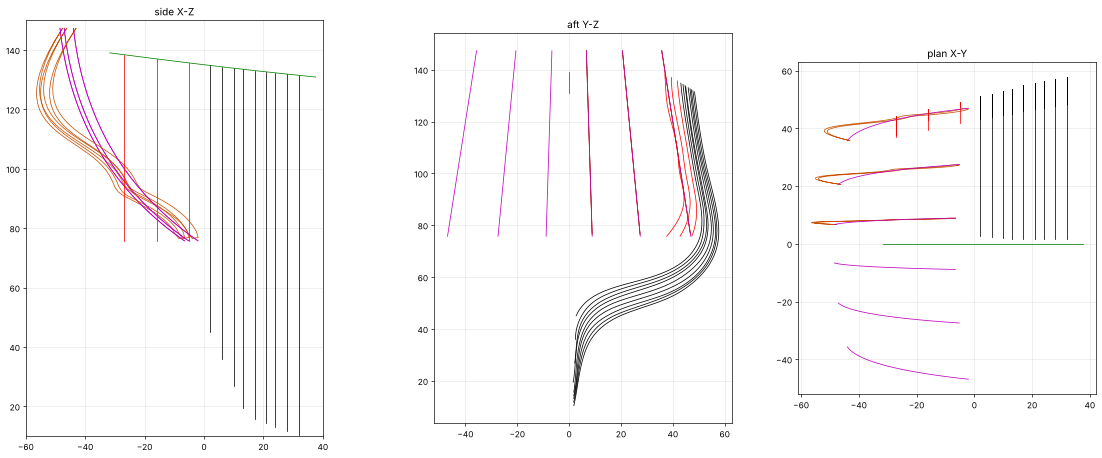
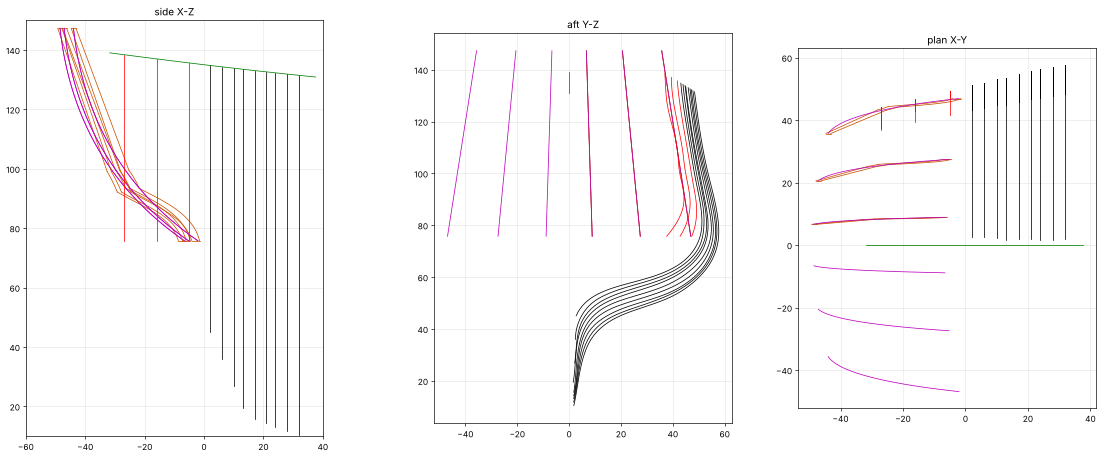
Aft timbers lines file v2 (previous dims) + F49-51 proposal
Claude-Session: https://claude.ai/code/session_01SWTSFSjbVSvZtN9zhZCgM8

diff --git a/royal_caroline/py/aft_timbers_lines_v2.py b/royal_caroline/py/aft_timbers_lines_v2.py
@@ -12,13 +12,13 @@ def nurbs(P,tol=0.02):
     for i,v in enumerate(t[1:-1]): cv.Knots[i]=float(v)
     return cv
 def add(cv,L,name): a=r3.ObjectAttributes(); a.LayerIndex=L; a.Name=name; f.Objects.AddCurve(cv,a)
-S=np.array(json.load(open('data/bulwark_line_v3.json'))['S1']); T=json.load(open('data/aft_frames_tops_v1.json'))
+SB=np.array(json.load(open('data/bulwark_line_v3.json'))['S1']); T=json.load(open('data/aft_frames_tops_v1.json'))
 # 1 approved tops (tangent extension to S1)
 L1=layer('APPROVED_aft_frames_46_48_with_tops_on_S1 (+Y)',(0,0,0,255))
 for k,v in T.items(): P=np.array(v['pts']); add(nurbs(np.c_[np.full(len(P),v['X']),P]),L1,k+' X=%g'%v['X'])
-Ls=layer('REF_bulwark_lower_line_S1',(0,150,0,255)); m=S[:,0]<45; Q=S[m][::6]; add(nurbs(np.c_[Q[:,0],np.zeros(len(Q)),Q[:,1]]),Ls,'S1 (X-Z, Y=0)')
+Ls=layer('REF_bulwark_lower_line_S1',(0,150,0,255)); m=SB[:,0]<45; Q=SB[m][::6]; add(nurbs(np.c_[Q[:,0],np.zeros(len(Q)),Q[:,1]]),Ls,'S1 (X-Z, Y=0)')
 # 2 counter timbers, previous dims (v5)
-exec(open('py/stern_v5.py').read().split("# ---- placement")[0].split("S=json.load")[0].split("from OCP")[0])  # imports only
+V5=open('py/stern_v5.py').read(); exec(V5.split('def make_edge')[0].replace('from OCP','#from OCP'))   # ctrl = approved profile pieces (lines + interpolated splines)
 Sd=json.load(open('data/stern_side_points_v3.json')); tp=json.load(open('data/stern_timber_profile_closed_v1.json')); D=np.array(tp['closed_dense'])
 Yc=[7.5,23.2,40.2]; Zd=[120.0,119.7,118.6]; SPL=[1.8,5.5,8.9]; kp=4.7/40.2**2; kz=5.85e-3; Z0=147.3
 L2=layer('PROPOSED_counter_timbers_side_profile_at_Y_centre (prev dims 2.5 strip)',(200,80,0,255)); L3=layer('PROPOSED_counter_timbers_centre_paths (3D)',(200,0,200,255)); L4=layer('PROPOSED_counter_timbers_top_points',(200,0,200,255))
@@ -27,8 +27,11 @@ for i in range(3):
     yc=lambda z,i=i: Yc[i]+math.tan(math.radians(SPL[i]))*(Zd[i]-z); dx=kp*(Yc[i]**2-Yc[0]**2)
     for sgn,s in ((1,'S'),(-1,'P')):
         if sgn<0 and i>=0 and False: pass
-        P=np.array([[x+dx,sgn*yc(z),z] for x,z in D[idx]]); P=np.vstack([P,P[0]])
-        if sgn>0: add(nurbs(P[:-1],0.05),L2,'T%d%s side profile (sample spline, closed outline from approved v5)'%(i+1,s))
+        if sgn>0:
+            for j,(kind,Pc) in enumerate(ctrl):
+                Pc=np.array([[p[0]+dx,yc(p[1]),p[1]] for p in Pc])
+                if kind=='line': add(r3.LineCurve(r3.Point3d(*Pc[0]),r3.Point3d(*Pc[1])),L2,'T%d side profile piece %d line'%(i+1,j+1))
+                else: add(nurbs(Pc,0.0),L2,'T%d side profile piece %d spline'%(i+1,j+1))
         cz=np.array([75.75,100,Z0]); cx=np.array([-6.6,-39.0,-48.5])+dx  # strip centre: foot (knee end), mid, top (approved strip edges mid)
         add(nurbs(np.c_[[ (np.interp(z,[75.75,99.5,Z0],[-6.6,-31.2,-48.5])+dx) for z in cz],[sgn*yc(z) for z in cz],cz],0.5),L3,'T%d%s centre path'%(i+1,s))
         ztop=Z0-kz*(yc(Z0)**2-(Yc[0]+math.tan(math.radians(SPL[0]))*(Zd[0]-Z0))**2); a=r3.ObjectAttributes(); a.LayerIndex=L4; a.Name='T%d%s top Z%.2f'%(i+1,s,ztop); f.Objects.AddPoint(r3.Point3d(-48.5+dx,sgn*yc(ztop),ztop),a)
@@ -39,7 +42,7 @@ for nm,x in (('F46',28.0),('F47',17.0),('F48',6.0)): P=np.array(T[nm+'_mid']['pt
 zs=np.linspace(75.75,134,10)
 def Yat(P,z): o=np.argsort(P[:,1]); return np.interp(z,P[o,1],P[o,0])
 for nm,xc in (('F49',-5.0),('F50',-16.0),('F51',-27.0)):
-    zt=float(np.interp(xc,S[:,0],S[:,1])); zz=np.r_[zs[zs<zt-2],zt]
+    zt=float(np.interp(xc,SB[:,0],SB[:,1])); zz=np.r_[zs[zs<zt-2],zt]
     pts=[]
     for z in zz:
         ys=[Yat(mids[x],z) for x in (28.0,17.0,6.0)]; c=np.polyfit([28.0,17.0,6.0],ys,2); pts.append([xc,max(np.polyval(c,xc),0),z])
